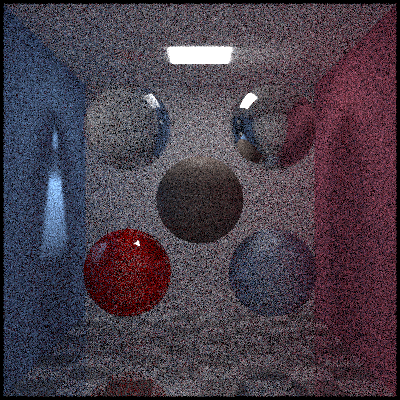
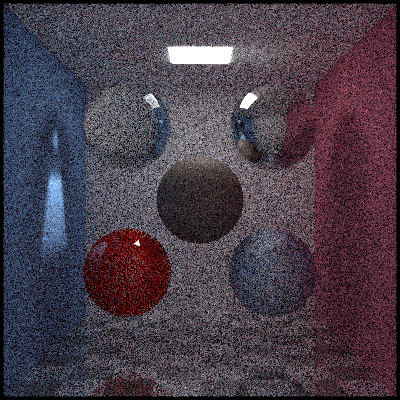
Normals maps for quads

diff --git a/src/image.hpp b/src/image.hpp
@@ -83,16 +83,14 @@ namespace art {
             #endif
 
             int res = stbi_write_png(filePath.c_str(), m_width, m_height, m_numChannels, m_data, m_width * m_numChannels);
-            assert(res != 0);
 
 #ifdef _WIN32
+            // show image in viewer
             ShellExecute(NULL, "open", filePath.c_str(), NULL, NULL, SW_SHOWDEFAULT);
 #endif
         }
 
         void LoadFromFile(const std::string &filename) {
-            m_numChannels = 3;
-
             std::filesystem::path namePath(filename);  // need this to check if path is relative
 
             // if path is relative then seek inside textures and output folder (setup by cmake)
@@ -122,10 +120,10 @@ namespace art {
 
             std::cout << "loading image " << finalFilePath << "\n";
 
+            m_numChannels = 3;
             int texWidth, texHeight, texChannels;
             m_data = stbi_load(finalFilePath.c_str(), &texWidth, &texHeight, &texChannels, m_numChannels);
             
-            assert(m_data != NULL);
             if (m_data == NULL) {
                 std::cerr << "failed to load image!";
                 exit(1);

diff --git a/src/hittable.hpp b/src/hittable.hpp
@@ -163,6 +163,10 @@ namespace art {
 			hitInfo.mat = m_mat;
 			hitInfo.SetFaceNormal(r, m_N);
 
+			// calculate tangent space for normal maps
+			hitInfo.T = glm::normalize(m_u);
+			hitInfo.BT = glm::cross(hitInfo.N, hitInfo.T);
+
 			return true;
 		}
 
